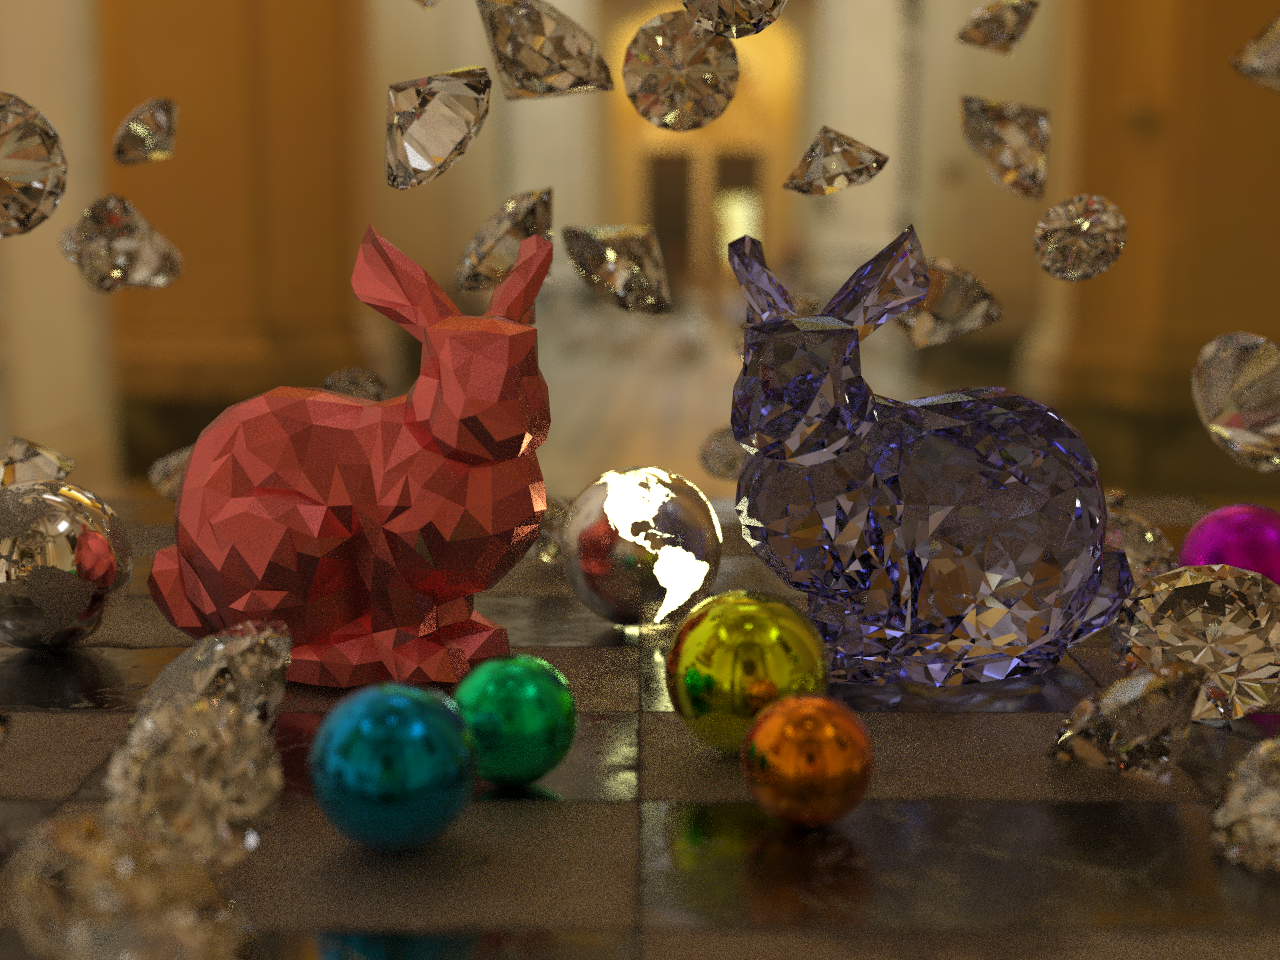
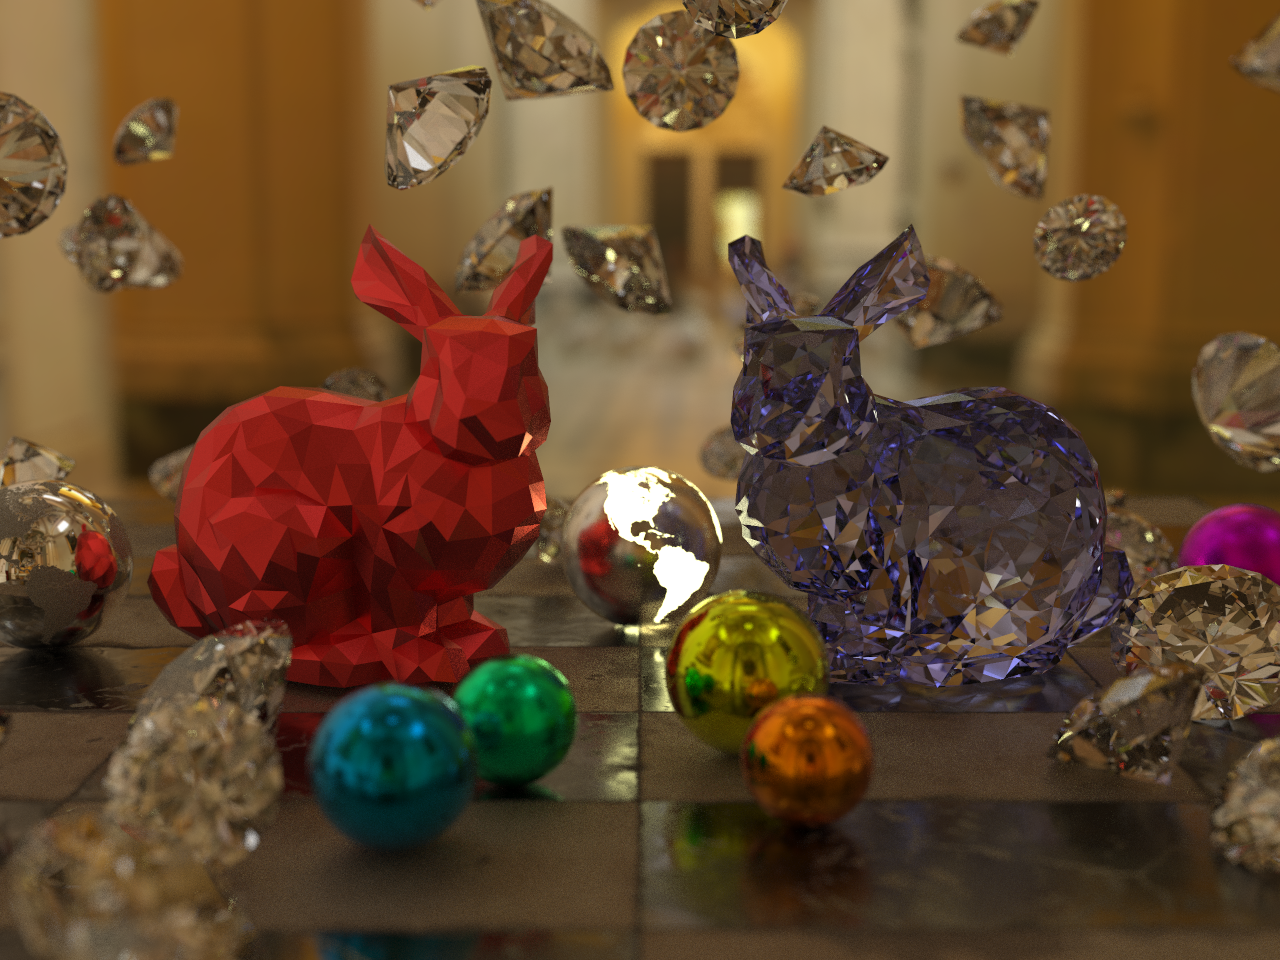
Overwrite albedo

diff --git a/src/main.rs b/src/main.rs
@@ -189,7 +189,7 @@ fn init_scene_rtcamp5() -> (Camera, Scene) {
                 Matrix44::scale(1.5, 1.5, 1.5) * Matrix44::translate(-1.2, 0.0, 0.0) * Matrix44::rotate_y(-0.2),
                 Material {
                     surface: SurfaceType::GGX,
-                    albedo: Texture::from_color(Color::new(1.0, 0.2, 0.2)),
+                    albedo: Texture::from_color(Color::new(1.0, 0.05, 0.05)),
                     emission: Texture::black(),
                     roughness: Texture::from_color(Color::from_one(0.1)),
                 },
@@ -422,8 +422,7 @@ fn main() {
     {
         //let (width, height, sampling) = (800, 600, 5);// SVGA 480,000 pixel
         //let (width, height, sampling) = (800, 600, 50);// SVGA 480,000 pixel
-        //let (width, height, sampling) = (1280, 960, 67);// QVGA 1,228,800 pixel for rtcamp5
-        let (width, height, sampling) = (1280, 960, 9);
+        let (width, height, sampling) = (1280, 960, 900);
         //let (width, height, sampling) = (1920, 1080, 1000);// FHD 2,073,600 pixel
         //let (width, height, sampling) = (1280, 720, 1000);// HD 921,600 pixel
 
